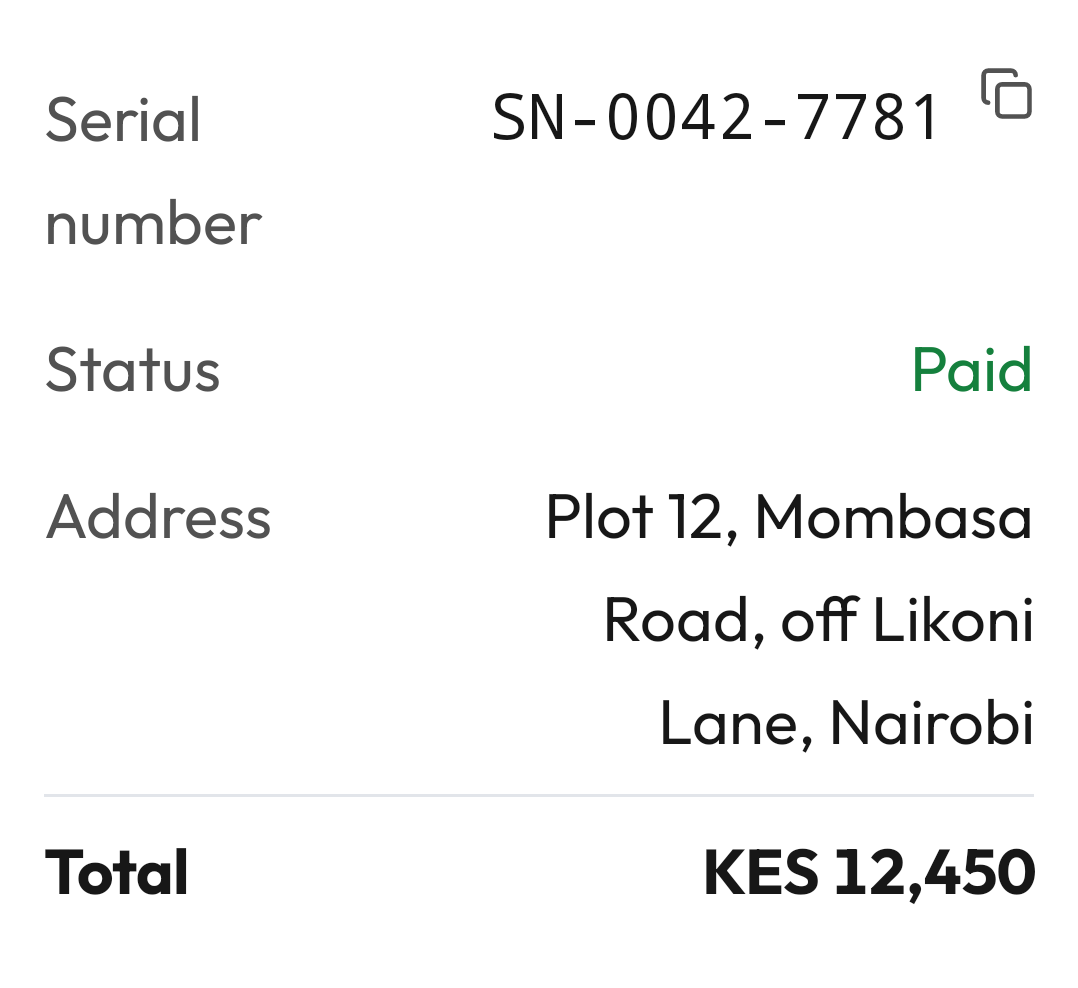
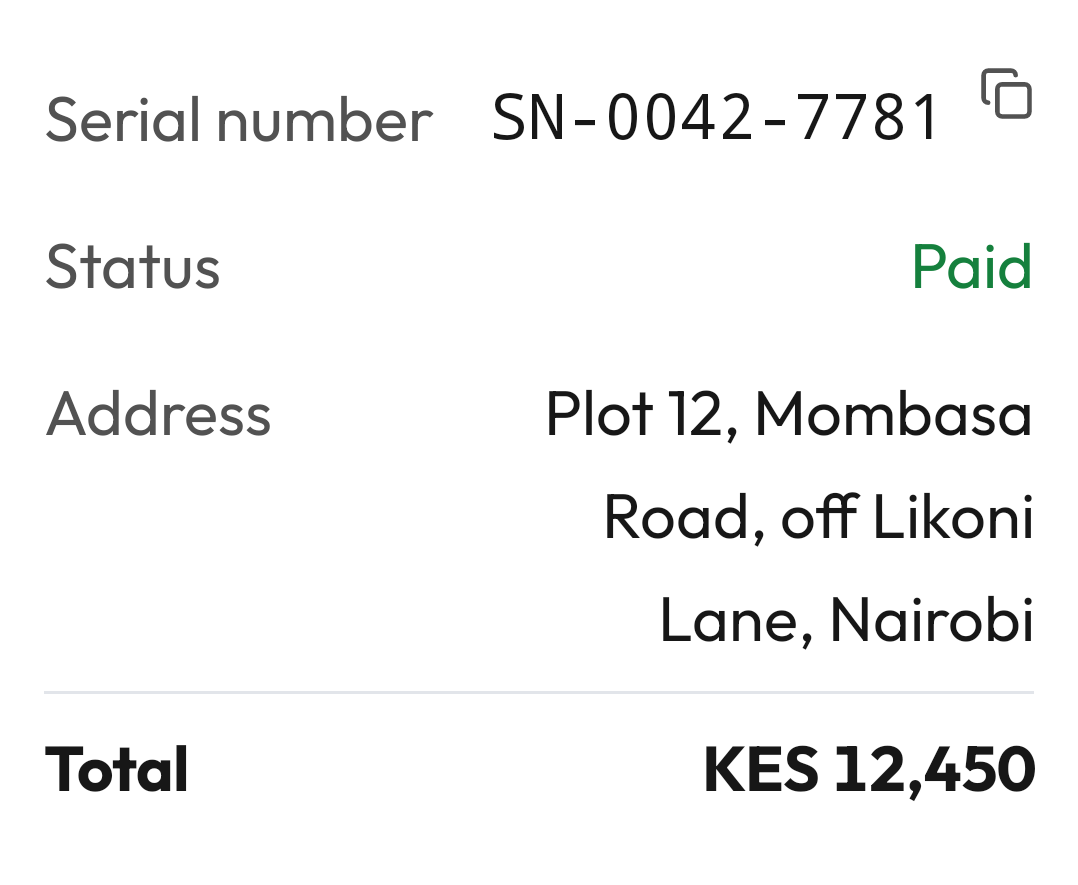
Add size and padding options to list rows
JengaListItem, JengaKeyValueRow, JengaRadioListItem and JengaCheckboxListItem take minHeight and contentPadding. JengaKeyValueRow can cap the value to a share of the row and a line count. The selection list items can place their control at the end.

diff --git a/jenga/src/commonMain/kotlin/io/github/joelkanyi/jenga/component/list/JengaKeyValueRow.kt b/jenga/src/commonMain/kotlin/io/github/joelkanyi/jenga/component/list/JengaKeyValueRow.kt
@@ -2,11 +2,13 @@ package io.github.joelkanyi.jenga.component.list
 
 import androidx.compose.foundation.clickable
 import androidx.compose.foundation.layout.Arrangement
-import androidx.compose.foundation.layout.Box
+import androidx.compose.foundation.layout.BoxWithConstraints
+import androidx.compose.foundation.layout.PaddingValues
 import androidx.compose.foundation.layout.Row
 import androidx.compose.foundation.layout.defaultMinSize
 import androidx.compose.foundation.layout.fillMaxWidth
 import androidx.compose.foundation.layout.padding
+import androidx.compose.foundation.layout.widthIn
 import androidx.compose.runtime.Composable
 import androidx.compose.runtime.CompositionLocalProvider
 import androidx.compose.runtime.Immutable
@@ -17,6 +19,9 @@ import androidx.compose.ui.semantics.Role
 import androidx.compose.ui.text.TextStyle
 import androidx.compose.ui.text.font.FontWeight
 import androidx.compose.ui.text.style.TextAlign
+import androidx.compose.ui.text.style.TextOverflow
+import androidx.compose.ui.unit.Dp
+import androidx.compose.ui.unit.dp
 import dev.drewhamilton.poko.Poko
 import io.github.joelkanyi.jenga.component.badge.JengaBadgeTone
 import io.github.joelkanyi.jenga.component.text.JengaText
@@ -49,6 +54,16 @@ public class JengaKeyValueRowColors(
 
 /** Defaults and token mappings for [JengaKeyValueRow]. */
 public object JengaKeyValueRowDefaults {
+    /** Minimum row height; a clickable row is never shorter than the touch target. */
+    public val MinHeight: Dp = 0.dp
+
+    /** Default share of the row width the value may take before it wraps or truncates. */
+    public const val ValueMaxWidthFraction: Float = 0.6f
+
+    /** Inner padding around the label and value. */
+    public val contentPadding: PaddingValues
+        @Composable get() = PaddingValues(vertical = JengaTheme.spacing.sm)
+
     /**
      * Themed colors for [emphasis]; a non-null [valueTone] tints the value
      * (e.g. success for "Paid").
@@ -78,7 +93,8 @@ public object JengaKeyValueRowDefaults {
 
 /**
  * A label and its value on one row: the label at the start, the value aligned
- * to the end and wrapping onto more lines when long. Stack these for detail
+ * to the end, taking up to [valueMaxWidthFraction] of the row and wrapping up
+ * to [valueMaxLines] lines before it is truncated with an ellipsis. Stack these for detail
  * and summary sections (serial numbers, dates, amounts). Place a
  * [io.github.joelkanyi.jenga.component.divider.JengaDivider] above a total row
  * to set it apart.
@@ -93,6 +109,10 @@ public object JengaKeyValueRowDefaults {
  * @param emphasis the row's weight; see [JengaKeyValueEmphasis].
  * @param trailingContent optional end slot after the value (e.g. a copy button).
  * @param onClick optional click handler; makes the whole row clickable.
+ * @param valueMaxLines the maximum lines for [value] before it is truncated.
+ * @param valueMaxWidthFraction the largest share of the row width the value may take.
+ * @param minHeight the minimum row height.
+ * @param contentPadding inner padding around the label and value.
  * @param colors the color set; defaults to [JengaKeyValueRowDefaults.colors].
  */
 @Composable
@@ -105,26 +125,25 @@ public fun JengaKeyValueRow(
     emphasis: JengaKeyValueEmphasis = JengaKeyValueEmphasis.Default,
     trailingContent: (@Composable () -> Unit)? = null,
     onClick: (() -> Unit)? = null,
+    valueMaxLines: Int = Int.MAX_VALUE,
+    valueMaxWidthFraction: Float = JengaKeyValueRowDefaults.ValueMaxWidthFraction,
+    minHeight: Dp = JengaKeyValueRowDefaults.MinHeight,
+    contentPadding: PaddingValues = JengaKeyValueRowDefaults.contentPadding,
     colors: JengaKeyValueRowColors = JengaKeyValueRowDefaults.colors(emphasis, valueTone),
 ) {
     val isTotal = emphasis == JengaKeyValueEmphasis.Total
     val bold = TextStyle(fontWeight = FontWeight.Bold)
     val labelStyle = JengaTheme.typography.bodyMedium.let { if (isTotal) it.merge(bold) else it }
-    Box(
+    val rowMinHeight = if (onClick != null) maxOf(minHeight, JengaTheme.sizing.minTouchTarget) else minHeight
+    BoxWithConstraints(
         modifier = modifier
             .fillMaxWidth()
-            .then(
-                if (onClick != null) {
-                    Modifier
-                        .clickable(role = Role.Button, onClick = onClick)
-                        .defaultMinSize(minHeight = JengaTheme.sizing.minTouchTarget)
-                } else {
-                    Modifier
-                },
-            )
-            .padding(vertical = JengaTheme.spacing.sm),
+            .then(if (onClick != null) Modifier.clickable(role = Role.Button, onClick = onClick) else Modifier)
+            .defaultMinSize(minHeight = rowMinHeight)
+            .padding(contentPadding),
         contentAlignment = Alignment.CenterStart,
     ) {
+        val valueMaxWidth = maxWidth * valueMaxWidthFraction
         Row(
             modifier = Modifier.fillMaxWidth(),
             verticalAlignment = Alignment.Top,
@@ -132,16 +151,18 @@ public fun JengaKeyValueRow(
         ) {
             JengaText(
                 text = label,
-                modifier = Modifier.weight(2f),
+                modifier = Modifier.weight(1f),
                 style = labelStyle,
                 color = colors.label,
             )
             JengaText(
                 text = value,
-                modifier = Modifier.weight(3f),
+                modifier = Modifier.widthIn(max = valueMaxWidth),
                 style = if (isTotal) valueStyle.merge(bold) else valueStyle,
                 color = colors.value,
                 textAlign = TextAlign.End,
+                maxLines = valueMaxLines,
+                overflow = TextOverflow.Ellipsis,
             )
             if (trailingContent != null) {
                 CompositionLocalProvider(LocalJengaContentColor provides colors.trailing) {

diff --git a/jenga/src/commonMain/kotlin/io/github/joelkanyi/jenga/component/list/JengaSelectionListItems.kt b/jenga/src/commonMain/kotlin/io/github/joelkanyi/jenga/component/list/JengaSelectionListItems.kt
@@ -1,16 +1,23 @@
 package io.github.joelkanyi.jenga.component.list
 
+import androidx.compose.foundation.layout.PaddingValues
 import androidx.compose.foundation.selection.selectable
 import androidx.compose.foundation.selection.toggleable
 import androidx.compose.runtime.Composable
 import androidx.compose.ui.Modifier
+import androidx.compose.ui.graphics.Shape
 import androidx.compose.ui.semantics.Role
+import androidx.compose.ui.unit.Dp
 import io.github.joelkanyi.jenga.component.selection.JengaCheckbox
+import io.github.joelkanyi.jenga.component.selection.JengaCheckboxDefaults
 import io.github.joelkanyi.jenga.component.selection.JengaRadioButton
 
+/** Where a selection list item draws its control. */
+public enum class JengaControlPosition { Leading, Trailing }
+
 /**
- * A list row with a leading [JengaRadioButton], for picking one option from a
- * list. The whole row is the touch target and is announced as a radio button.
+ * A list row with a [JengaRadioButton], for picking one option from a list.
+ * The whole row is the touch target and is announced as a radio button.
  *
  * @sample io.github.joelkanyi.jenga.samples.JengaRadioListItemSample
  *
@@ -20,6 +27,9 @@ import io.github.joelkanyi.jenga.component.selection.JengaRadioButton
  * @param modifier the [Modifier] for this row.
  * @param supporting optional secondary text below the headline.
  * @param enabled whether the row is interactive.
+ * @param controlPosition whether the radio sits at the start or the end of the row.
+ * @param minHeight the minimum row height.
+ * @param contentPadding inner padding around the row content.
  */
 @Composable
 public fun JengaRadioListItem(
@@ -29,7 +39,11 @@ public fun JengaRadioListItem(
     modifier: Modifier = Modifier,
     supporting: String? = null,
     enabled: Boolean = true,
+    controlPosition: JengaControlPosition = JengaControlPosition.Leading,
+    minHeight: Dp = JengaListItemDefaults.MinHeight,
+    contentPadding: PaddingValues = JengaListItemDefaults.contentPadding,
 ) {
+    val control: @Composable () -> Unit = { JengaRadioButton(selected = selected, onClick = null, enabled = enabled) }
     JengaListItem(
         headline = headline,
         modifier = modifier.selectable(
@@ -39,14 +53,17 @@ public fun JengaRadioListItem(
             onClick = onClick,
         ),
         supporting = supporting,
-        leadingContent = { JengaRadioButton(selected = selected, onClick = null, enabled = enabled) },
+        leadingContent = control.takeIf { controlPosition == JengaControlPosition.Leading },
+        trailingContent = control.takeIf { controlPosition == JengaControlPosition.Trailing },
         enabled = enabled,
+        minHeight = minHeight,
+        contentPadding = contentPadding,
     )
 }
 
 /**
- * A list row with a leading [JengaCheckbox], for picking several options from a
- * list. The whole row is the touch target and is announced as a checkbox.
+ * A list row with a [JengaCheckbox], for picking several options from a list.
+ * The whole row is the touch target and is announced as a checkbox.
  *
  * @sample io.github.joelkanyi.jenga.samples.JengaCheckboxListItemSample
  *
@@ -56,6 +73,10 @@ public fun JengaRadioListItem(
  * @param modifier the [Modifier] for this row.
  * @param supporting optional secondary text below the headline.
  * @param enabled whether the row is interactive.
+ * @param controlPosition whether the checkbox sits at the start or the end of the row.
+ * @param minHeight the minimum row height.
+ * @param contentPadding inner padding around the row content.
+ * @param checkboxShape the checkbox box shape.
  */
 @Composable
 public fun JengaCheckboxListItem(
@@ -65,7 +86,14 @@ public fun JengaCheckboxListItem(
     modifier: Modifier = Modifier,
     supporting: String? = null,
     enabled: Boolean = true,
+    controlPosition: JengaControlPosition = JengaControlPosition.Leading,
+    minHeight: Dp = JengaListItemDefaults.MinHeight,
+    contentPadding: PaddingValues = JengaListItemDefaults.contentPadding,
+    checkboxShape: Shape = JengaCheckboxDefaults.shape,
 ) {
+    val control: @Composable () -> Unit = {
+        JengaCheckbox(checked = checked, onCheckedChange = null, enabled = enabled, shape = checkboxShape)
+    }
     JengaListItem(
         headline = headline,
         modifier = modifier.toggleable(
@@ -75,7 +103,10 @@ public fun JengaCheckboxListItem(
             onValueChange = onCheckedChange,
         ),
         supporting = supporting,
-        leadingContent = { JengaCheckbox(checked = checked, onCheckedChange = null, enabled = enabled) },
+        leadingContent = control.takeIf { controlPosition == JengaControlPosition.Leading },
+        trailingContent = control.takeIf { controlPosition == JengaControlPosition.Trailing },
         enabled = enabled,
+        minHeight = minHeight,
+        contentPadding = contentPadding,
     )
 }

diff --git a/jenga/src/commonMain/kotlin/io/github/joelkanyi/jenga/component/list/JengaListItem.kt b/jenga/src/commonMain/kotlin/io/github/joelkanyi/jenga/component/list/JengaListItem.kt
@@ -5,6 +5,7 @@ import androidx.compose.foundation.clickable
 import androidx.compose.foundation.layout.Arrangement
 import androidx.compose.foundation.layout.Box
 import androidx.compose.foundation.layout.Column
+import androidx.compose.foundation.layout.PaddingValues
 import androidx.compose.foundation.layout.Row
 import androidx.compose.foundation.layout.defaultMinSize
 import androidx.compose.foundation.layout.fillMaxWidth
@@ -45,6 +46,10 @@ public object JengaListItemDefaults {
     /** Minimum row height. */
     public val MinHeight: Dp = 56.dp
 
+    /** Inner padding around the row content. */
+    public val contentPadding: PaddingValues
+        @Composable get() = PaddingValues(horizontal = JengaTheme.spacing.lg, vertical = JengaTheme.spacing.md)
+
     /** Themed colors. */
     @Composable
     public fun colors(): JengaListItemColors {
@@ -76,6 +81,8 @@ public object JengaListItemDefaults {
  * @param enabled when false, the row is drawn in the disabled color and [onClick] is ignored.
  * @param headlineMaxLines the maximum lines for [headline] before it is truncated.
  * @param supportingMaxLines the maximum lines for [supporting] before it is truncated.
+ * @param minHeight the minimum row height.
+ * @param contentPadding inner padding around the row content.
  * @param colors the color set; defaults to [JengaListItemDefaults.colors].
  */
 @Composable
@@ -90,6 +97,8 @@ public fun JengaListItem(
     enabled: Boolean = true,
     headlineMaxLines: Int = 1,
     supportingMaxLines: Int = 1,
+    minHeight: Dp = JengaListItemDefaults.MinHeight,
+    contentPadding: PaddingValues = JengaListItemDefaults.contentPadding,
     colors: JengaListItemColors = JengaListItemDefaults.colors(),
 ) {
     val disabled = JengaTheme.colors.contentDisabled
@@ -107,8 +116,8 @@ public fun JengaListItem(
                     Modifier
                 },
             )
-            .defaultMinSize(minHeight = JengaListItemDefaults.MinHeight)
-            .padding(horizontal = JengaTheme.spacing.lg, vertical = JengaTheme.spacing.md),
+            .defaultMinSize(minHeight = minHeight)
+            .padding(contentPadding),
         verticalAlignment = Alignment.CenterVertically,
         horizontalArrangement = Arrangement.spacedBy(JengaTheme.spacing.md),
     ) {

diff --git a/jenga/src/androidMain/kotlin/io/github/joelkanyi/jenga/component/list/JengaKeyValueRowPreviews.kt b/jenga/src/androidMain/kotlin/io/github/joelkanyi/jenga/component/list/JengaKeyValueRowPreviews.kt
@@ -2,10 +2,12 @@ package io.github.joelkanyi.jenga.component.list
 
 import androidx.compose.foundation.background
 import androidx.compose.foundation.layout.Column
+import androidx.compose.foundation.layout.PaddingValues
 import androidx.compose.foundation.layout.padding
 import androidx.compose.runtime.Composable
 import androidx.compose.ui.Modifier
 import androidx.compose.ui.tooling.preview.Preview
+import androidx.compose.ui.unit.dp
 import io.github.joelkanyi.jenga.component.badge.JengaBadgeTone
 import io.github.joelkanyi.jenga.component.divider.JengaDivider
 import io.github.joelkanyi.jenga.component.icon.JengaIcon
@@ -51,5 +53,23 @@ private fun KeyValueRowShowcase() {
             valueStyle = JengaTheme.typography.bodyMedium.withTabularFigures(),
             emphasis = JengaKeyValueEmphasis.Total,
         )
+    }
+}
+
+@JengaBlockPreviews
+@Composable
+internal fun JengaKeyValueRowSingleLinePreview() {
+    JengaTheme {
+        Column(modifier = Modifier.background(JengaTheme.colors.surface)) {
+            JengaKeyValueRow(
+                label = "Address",
+                value = "Plot 12, Mombasa Road, off Likoni Lane, Nairobi",
+                valueMaxLines = 1,
+                valueMaxWidthFraction = 0.62f,
+                minHeight = 50.dp,
+                contentPadding = PaddingValues(horizontal = 16.dp, vertical = 12.dp),
+            )
+            JengaKeyValueRow(label = "Serial number", value = "SN-0042-7781", onClick = {})
+        }
     }
 }

diff --git a/jenga/src/androidMain/kotlin/io/github/joelkanyi/jenga/component/list/JengaSelectionListItemsPreviews.kt b/jenga/src/androidMain/kotlin/io/github/joelkanyi/jenga/component/list/JengaSelectionListItemsPreviews.kt
@@ -34,3 +34,25 @@ private fun SelectionListItemsShowcase() {
         JengaCheckboxListItem(headline = "Panel", checked = true, onCheckedChange = {}, enabled = false)
     }
 }
+
+@JengaBlockPreviews
+@Composable
+internal fun JengaSelectionListItemsTrailingPreview() {
+    JengaTheme {
+        Column(modifier = Modifier.background(JengaTheme.colors.surface)) {
+            JengaCheckboxListItem(
+                headline = "Replace the fuse",
+                checked = true,
+                onCheckedChange = {},
+                supporting = "KES 350",
+                controlPosition = JengaControlPosition.Trailing,
+            )
+            JengaRadioListItem(
+                headline = "Pick up at the shop",
+                selected = false,
+                onClick = {},
+                controlPosition = JengaControlPosition.Trailing,
+            )
+        }
+    }
+}
